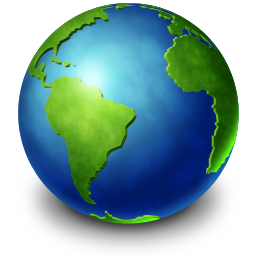
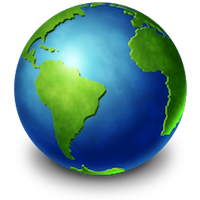
User get the same screen with planet osv

diff --git a/js/Play.js b/js/Play.js
@@ -63,9 +63,10 @@
     var localType;
     var opponentName;
     var opponentType;
+    var uniqeID;
 
 
-Game.Play = function (game, output) {
+Game.Play = function (game) {
  	this.bmd = null;
     this.mode = 0;
     var background = null; 
@@ -78,11 +79,12 @@ Game.Play = function (game, output) {
 
 Game.Play.prototype = {
 
-    init: function(type, name, type1, name1){
+    init: function(type, name, type1, name1, data){
         localName = name;
         localType = type;
         opponentName = name1;
         opponentType = type1;
+        uniqeID = data;
     },
 
 	create: function(game){
@@ -178,19 +180,45 @@ Game.Play.prototype = {
         addTowerButton2.spriteName = "satellite";
         addTowerButton3.spriteName = "blackhole";
 
-        planetSprite1 = this.game.add.sprite(0, this.game.width/4, localUser.getType());
-        healthArray.push(this.createHealthBar(95, 12, planetSprite1.x + 20 , planetSprite1.y - planetSprite1.y/6));
-        planetSprite1.width = 150;
-        planetSprite1.height = 150;
+        console.log(uniqeID);
 
-        planetSprite2 = this.game.add.sprite(this.game.width - 150, this.game.world.centerY - 70, opponentUser.getType());
-        healthArray.push(this.createHealthBar(95, 12, planetSprite2.x + 20 , planetSprite2.y - planetSprite2.y/6));
-        planetSprite2.scale.setTo(0.3, 0.3);
-        this.game.physics.enable(planetSprite2, Phaser.Physics.ARCADE);
-        //planetSprite2.enableBody = true;
-        planetSprite2.immovable = true;
-        planetSprite2.physicsBodyType = Phaser.Physics.ARCADE;
+        if(uniqeID.id == 1){
+            planetSprite1 = this.game.add.sprite(0, this.game.width/4, localUser.getType());
+            healthArray.push(this.createHealthBar(95, 12, planetSprite1.x + 20 , planetSprite1.y - planetSprite1.y/6));
 
+            //planetSprite2 = this.game.add.sprite(this.game.width - 150, this.game.world.centerY - 70, opponentUser.getType());
+            planetSprite2 = this.game.add.sprite(this.game.width - 150, this.game.height/2 - 10, opponentUser.getType());
+            healthArray.push(this.createHealthBar(95, 12, planetSprite2.x + 20 , planetSprite2.y - planetSprite2.y/6));
+            //this.game.physics.enable(planetSprite2, Phaser.Physics.ARCADE);
+            //planetSprite2.enableBody = true;
+           // planetSprite2.immovable = true;
+            //planetSprite2.physicsBodyType = Phaser.Physics.ARCADE;
+            console.log("uniqeID 1 " + uniqeID.id);
+
+            planetSprite1.width = 150;
+            planetSprite1.height = 150;
+            planetSprite2.width = 150;
+            planetSprite2.height = 150;
+
+          }else{
+            planetSprite1 = this.game.add.sprite(0, this.game.width/4, opponentUser.getType());
+            healthArray.push(this.createHealthBar(95, 12, planetSprite1.x + 20 , planetSprite1.y - planetSprite1.y/6));
+
+            planetSprite2 = this.game.add.sprite(this.game.width - 150, this.game.height/2 - 10, localUser.getType());
+            healthArray.push(this.createHealthBar(95, 12, planetSprite2.x + 20 , planetSprite2.y - planetSprite2.y/6));
+            //this.game.physics.enable(planetSprite2, Phaser.Physics.ARCADE);
+            //planetSprite2.enableBody = true;
+           // planetSprite2.immovable = true;
+            //planetSprite2.physicsBodyType = Phaser.Physics.ARCADE;
+            planetSprite1.width = 150;
+            planetSprite1.height = 150;
+            planetSprite2.width = 150;
+            planetSprite2.height = 150;
+
+            console.log("uniqeID 2 " + uniqeID.id);
+        }
+
+       
         this.plot();
 
         // The enemy's bullets
@@ -352,8 +380,8 @@ Game.Play.prototype = {
     },
 
 	update: function(game){
-		planetSprite2.x = this.game.width - 150;
-        planetSprite2.y = this.game.world.centerY - 70;
+		//planetSprite2.x = this.game.width - 150;
+        //planetSprite2.y = this.game.world.centerY - 70;
 
 	    if(updateText){
 
@@ -798,6 +826,7 @@ Game.Play.prototype = {
 
             ship = null;
             spaceShip = null;
+            uniqeID = null;
 
         },
 

diff --git a/js/Lobby.js b/js/Lobby.js
@@ -6,10 +6,13 @@ Game.Lobby = function (game, output) {
 	var opponentUser;
 };
 
+var startCountDown = false;
+var copyThis;
+
 Game.Lobby.prototype = {
 
 	create:function(game){
-
+		copyThis  = this;
 		socket = io.connect("http://localhost", {port: 8000, transports: ["websocket"]});
 
 		var background = game.add.sprite(0,0, 'mainMenuBackground'); 
@@ -47,9 +50,11 @@ Game.Lobby.prototype = {
 
         // Player removed message received
         socket.on("remove player", this.onRemovePlayer);
+
+       	socket.on("client ready", this.onClientReady);
     },
 
- // Socket connected
+ 	// Socket connected
     onSocketConnected: function() {
         console.log("Connected to socket server");
         // Send local player data to the game server
@@ -103,6 +108,16 @@ Game.Lobby.prototype = {
         // Remove player from array
         remotePlayers.splice(remotePlayers.indexOf(removePlayer), 1);
     },
+
+    onClientReady:function(data){
+    	var type = localUser.getType();
+		var name = localUser.getName();
+		var type1 = opponentUser.getType();
+		var name1 = opponentUser.getName();
+    	
+    	copyThis.state.start('Play', true, false, type, name, type1, name1, data);
+    },
+
 	update:function(){
 		if(updateText){
 			text.setText("Players conected 2/2");
@@ -111,13 +126,15 @@ Game.Lobby.prototype = {
 		};
 	},
 
-	actionOnClickPlay:function(){
+	actionOnClickPlay:function(game){
+		socket.emit("client ready");
 		console.log(localUser.getName() + localUser.getType());
-		var type = localUser.getType();
-		var name = localUser.getName();
-		var type1 = opponentUser.getType();
-		var name1 = opponentUser.getName();
+		
+		playButton.kill();
 
-		this.state.start('Play', true, false, type, name, type1, name1);
+		var style = { font: "32px Arial", fill: "#ff0044"};
+		this.game.add.text(this.game.world.centerX, 600, "wait", style);
+
+		startCountDown = true;
 	},
 }

diff --git a/gameServer.js b/gameServer.js
@@ -11,7 +11,7 @@ var util = require("util"),					// Utility resources (logging, object inspection
 var socket,
 	players;	// Socket controller	// Array of connected players
 
-
+var counter = 0;
 /**************************************************
 ** GAME INITIALISATION
 **************************************************/
@@ -52,7 +52,7 @@ function onSocketConnection(client) {
 	// Listen for move player message
 	client.on("move player", onMovePlayer);
 
-	client.on("get playerInfo", onPlayerInfo);
+	client.on("client ready", onClientReady);
 
 };
 
@@ -115,8 +115,14 @@ function onMovePlayer(data) {
 	this.broadcast.emit("move player", {id: movePlayer.id, x: movePlayer.getX(), y: movePlayer.getY()});
 };
 
-function onPlayerInfo(){
-
+function onClientReady(){
+	counter++;
+	util.log("in onClientReady	" + counter);
+	if(counter == 2){
+		util.log("in onClientReady	if statement" + counter);
+		this.emit("client ready", {id:1});
+		this.broadcast.emit("client ready", {id:2});
+	}
 }
 
 /**************************************************

diff --git a/js/PlanetMenu.js b/js/PlanetMenu.js
@@ -58,7 +58,6 @@ Game.PlanetMenu.prototype = {
 		earthButton.alpha = 0.5;
 		planetType = "moon";
 
-
 		chooseButton.alpha = 1;
 		chooseButton.input.enabled = true;
 	},
